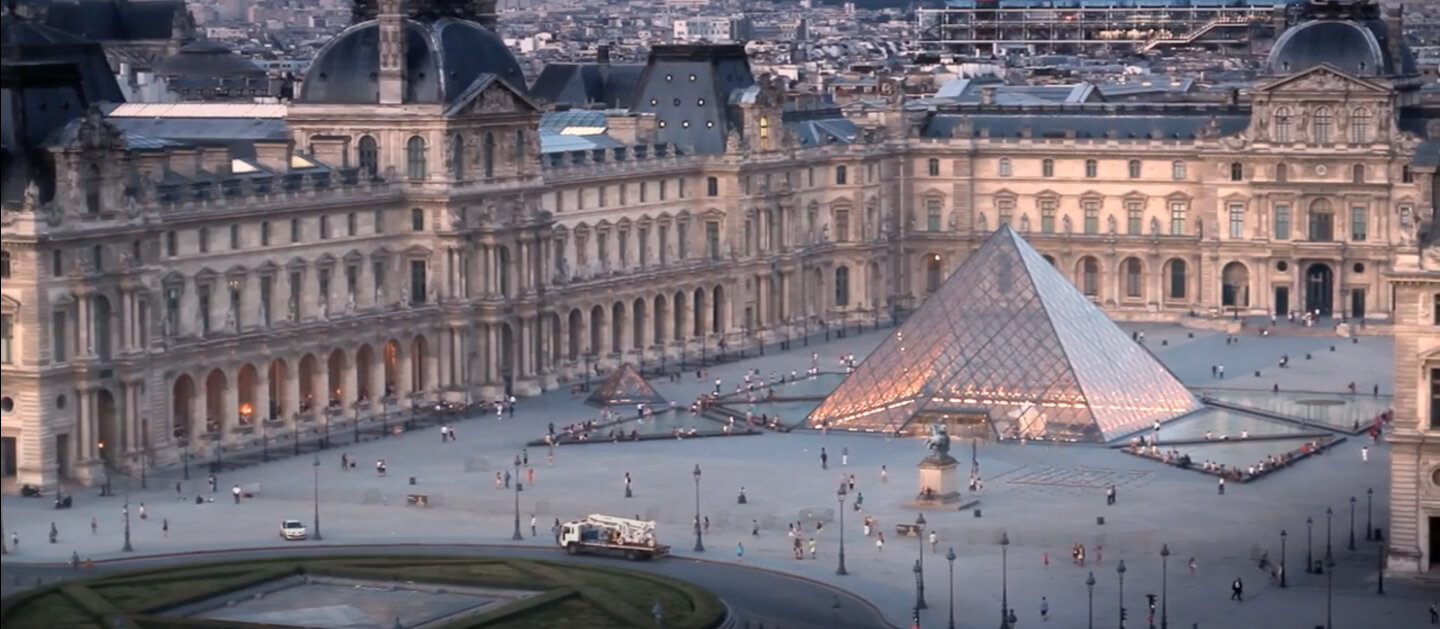
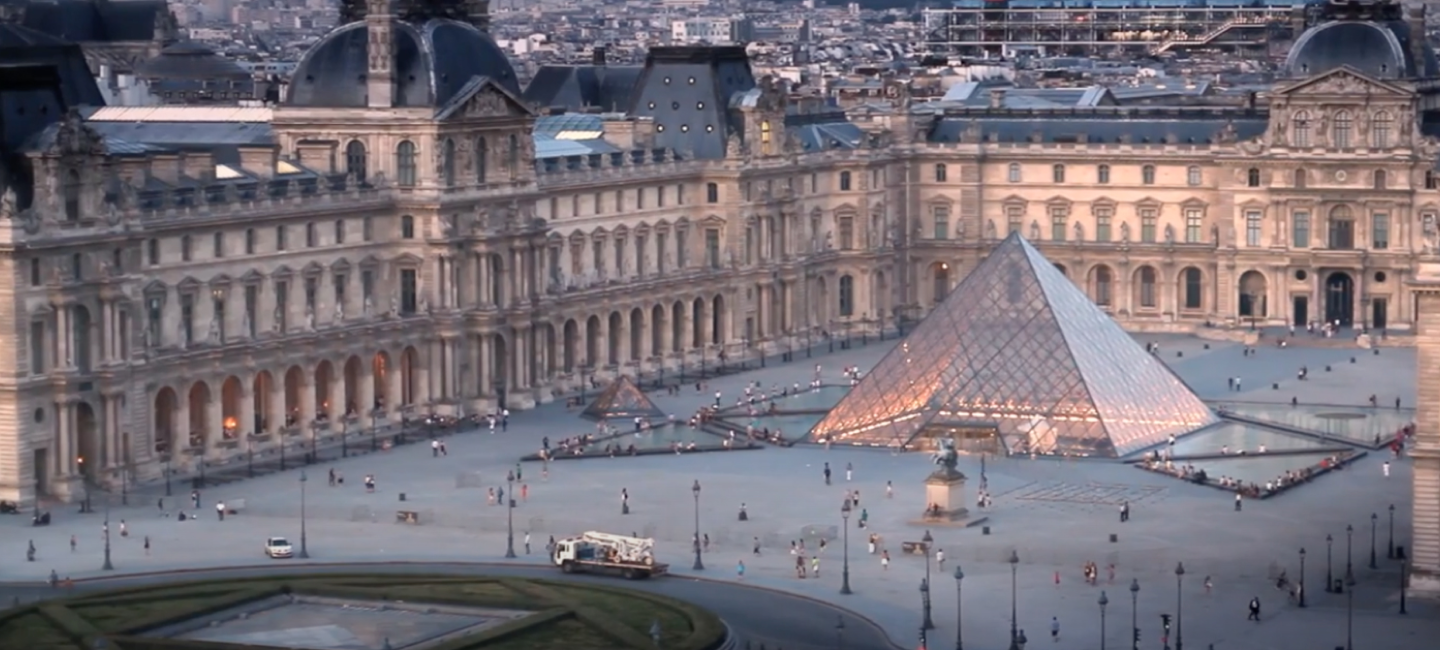
feat: update video section

diff --git a/museum/icons/_sprite-preview.html b/museum/icons/_sprite-preview.html
@@ -20,6 +20,7 @@ They might well be outsourced to an external stylesheet of course.
 
 <style type="text/css">
 	.svg-arrow-dims { width: 30px; height: 8px; }
+	.svg-double-arrow-dims { width: 10px; height: 12px; }
 	.svg-facebook-dims { width: 13px; height: 20px; }
 	.svg-fullscreen-dims { width: 35px; height: 35px; }
 	.svg-instagram-dims { width: 21px; height: 20px; }
@@ -53,6 +54,7 @@ for further details on how to create this embeddable sprite variant.
 
 <svg width="0" height="0" style="position:absolute">
 		<symbol fill="none" viewBox="0 0 30 8" id="arrow"><path d="M5.723 8C3.902 6.313 1.994 5.083 0 4.308v-.616C1.994 2.895 3.902 1.664 5.723 0H7.24c-.867 1.436-1.705 2.53-2.515 3.282H30v1.436H4.725C5.535 5.47 6.373 6.564 7.24 8H5.723z" fill="#fff"/></symbol>
+		<symbol fill="none" viewBox="0 0 10 12" id="double-arrow"><path fill-rule="evenodd" clip-rule="evenodd" d="M5.478.22c.4.344.465.973.145 1.405L2.376 6l3.247 4.375c.32.432.255 1.06-.145 1.406a.883.883 0 01-1.304-.156L0 6 4.174.375A.883.883 0 015.478.22zm4.174 0c.4.344.465.973.145 1.405L6.55 6l3.247 4.375c.32.432.255 1.06-.145 1.406a.883.883 0 01-1.304-.156L4.174 6 8.348.375A.883.883 0 019.652.22z" fill="#999"/></symbol>
 		<symbol fill="none" viewBox="0 0 13 20" id="facebook"><path d="M3.78 20l-.03-8.75H0V7.5h3.75V5c0-3.37 2.09-5 5.1-5 1.44 0 2.68.1 3.04.15v3.53H9.8c-1.63 0-1.95.78-1.95 1.92v1.9h4.65l-1.25 3.75h-3.4V20H3.78z" fill="#fff"/></symbol>
 		<symbol fill="none" viewBox="0 0 35 35" id="fullscreen"><path d="M30.605 30.751H22.41v4.113h12.298V22.507h-4.102v8.244zM4.103 22.507H0v12.357h12.299V30.75H4.103v-8.244zM0 12.357h4.103V4.122h8.196V0H0v12.357zM22.41 0v4.122h8.195v8.235h4.103V0H22.41z" fill="#B3B3B3"/></symbol>
 		<symbol fill="none" viewBox="0 0 21 20" id="instagram"><path d="M12.02 0c1.8 0 2.18.02 3.1.06 1.06.05 1.79.22 2.42.47.66.25 1.22.6 1.77 1.15.56.55.9 1.11 1.16 1.77.25.63.41 1.36.46 2.43.05.95.06 1.32.06 3.32v1.6c0 2-.01 2.37-.06 3.32a7.333 7.333 0 01-.46 2.42c-.26.66-.6 1.22-1.15 1.77-.56.56-1.12.9-1.78 1.16-.63.25-1.36.41-2.42.46-.95.05-1.33.06-3.33.06H10.2c-2 0-2.37-.01-3.33-.06a7.339 7.339 0 01-2.42-.46 4.91 4.91 0 01-1.77-1.15 4.9 4.9 0 01-1.16-1.78 7.35 7.35 0 01-.46-2.42 55.207 55.207 0 01-.06-3.1V8.97c0-1.8.02-2.18.06-3.1.05-1.06.22-1.79.46-2.42.26-.66.6-1.22 1.16-1.77A4.7 4.7 0 014.45.53 7.35 7.35 0 016.87.06C7.79.02 8.17 0 9.97 0h2.05zm.02 1.8H9.95c-1.73 0-2.1.02-3 .06-.97.04-1.5.2-1.85.34-.47.18-.8.4-1.15.75-.35.35-.57.68-.75 1.15-.13.35-.3.88-.34 1.86-.04.9-.06 1.26-.06 3v2.08c0 1.74.02 2.1.06 3 .04.97.2 1.5.34 1.85.18.47.4.8.75 1.15.35.35.68.57 1.15.75.35.14.88.3 1.86.34.97.05 1.32.06 3.48.06h1.11c2.17 0 2.51-.01 3.49-.06.97-.04 1.5-.2 1.85-.34.47-.18.8-.4 1.15-.75.35-.35.57-.68.75-1.15.14-.35.3-.88.34-1.85.05-.98.06-1.32.06-3.49v-1.1c0-2.17-.01-2.52-.06-3.5-.04-.97-.2-1.5-.34-1.85a3.101 3.101 0 00-.75-1.15 3.09 3.09 0 00-1.15-.75 5.6 5.6 0 00-1.85-.34c-1-.048-2-.068-3-.06zM11 4.86a5.135 5.135 0 110 10.27 5.135 5.135 0 010-10.27zm0 1.8a3.335 3.335 0 100 6.67 3.335 3.335 0 000-6.67zm5.33-3.2a1.2 1.2 0 110 2.4 1.2 1.2 0 010-2.4z" fill="#fff"/></symbol>
@@ -102,6 +104,17 @@ embedded above. They may be styled via CSS.
 
 					</div>
 					<h2>arrow</h2>
+				</li>
+				<li title="double-arrow">
+					<div class="icon-box">
+
+						<!-- double-arrow -->
+						<svg class="svg-double-arrow-dims">
+							<use xlink:href="#double-arrow"></use>
+						</svg>
+
+					</div>
+					<h2>double-arrow</h2>
 				</li>
 				<li title="facebook">
 					<div class="icon-box">
@@ -245,6 +258,17 @@ SVG sprite. They may be styled via CSS. (IE 9-11 with polyfill only)
 					</div>
 					<h2>arrow</h2>
 				</li>
+				<li title="double-arrow">
+					<div class="icon-box">
+
+						<!-- double-arrow -->
+						<svg class="svg-double-arrow-dims">
+							<use xlink:href="sprite.svg#double-arrow"></use>
+						</svg>
+
+					</div>
+					<h2>double-arrow</h2>
+				</li>
 				<li title="facebook">
 					<div class="icon-box">
 
@@ -363,7 +387,7 @@ SVG sprite. They may be styled via CSS. (IE 9-11 with polyfill only)
 
 		</section>
 		<footer>
-			<p>Generated at Fri, 24 Sep 2021 13:47:53 GMT by <a href="https://github.com/svg-sprite/svg-sprite" target="_blank" rel="noopener noreferrer">svg-sprite</a>.</p>
+			<p>Generated at Sat, 25 Sep 2021 17:27:45 GMT by <a href="https://github.com/svg-sprite/svg-sprite" target="_blank" rel="noopener noreferrer">svg-sprite</a>.</p>
 		</footer>
 	</body>
 </html>

diff --git a/museum/views/includes/video.html b/museum/views/includes/video.html
@@ -1,7 +1,13 @@
 <section class="section light-section video-section" id="video">
   <div class="container">
+    <div class="video-info">
+      <h2 class="section-title video-title">Video journey</h2>
+      <p class="video-text">Enter and visit one of the most famous museums in the world and enjoy masterpieces such as
+        Mona
+        Lisa or Hammurabi's Code</p>
+    </div>
     <div class="img-wrapper">
-      <img src="assets/img/video-screenshot.jpg" alt="Video screenshot" class="videopleer" width="1440" height="629">
+      <img src="assets/img/video-screenshot.jpg" alt="Video screenshot" class="videopleer" width="1440" height="650">
       <button class="video-button">
         <svg class="video-button-img" width="220" height="220">
           <title>Play</title>
@@ -10,22 +16,10 @@
       </button>
     </div>
     <div class="control-panel">
-      <button class="play-back pleer-button">
-        <svg class="pleer-button-svg" width="27" height="30">
-          <title>Play back</title>
-          <use href="assets/icons/sprite.svg#play-back"></use>
-        </svg>
-      </button>
       <button class="play pleer-button">
         <svg class="pleer-button-svg" width="23" height="30">
           <title>Play</title>
           <use href="assets/icons/sprite.svg#play"></use>
-        </svg>
-      </button>
-      <button class="play-forward pleer-button">
-        <svg class="pleer-button-svg" width="27" height="30">
-          <title>Play</title>
-          <use href="assets/icons/sprite.svg#play-forward"></use>
         </svg>
       </button>
       <input type="range" value="40" min="0" max="100" step="1" class="progress progress-big">
@@ -43,11 +37,29 @@
         </svg>
       </button>
     </div>
-    <div class="video-info">
-      <h2 class="section-title video-title">Video journey</h2>
-      <p class="video-text">Enter and visit one of the most famous museums in the world and enjoy masterpieces such as
-        Mona
-        Lisa or Hammurabi's Code</p>
+    <div class="video-slider-wrapper">
+      <iframe width="452" height="254" loading="lazy" src="https://www.youtube.com/embed/aWmJ5DgyWPI" title="YouTube video player" frameborder="0" allow="accelerometer; autoplay; clipboard-write; encrypted-media; gyroscope; picture-in-picture" allowfullscreen></iframe>
+      <iframe width="452" height="254" loading="lazy" src="https://www.youtube.com/embed/Vi5D6FKhRmo" title="YouTube video player" frameborder="0" allow="accelerometer; autoplay; clipboard-write; encrypted-media; gyroscope; picture-in-picture" allowfullscreen></iframe>
+      <iframe width="452" height="254" loading="lazy" src="https://www.youtube.com/embed/NOhDysLnTvY" title="YouTube video player" frameborder="0" allow="accelerometer; autoplay; clipboard-write; encrypted-media; gyroscope; picture-in-picture" allowfullscreen></iframe>
+    </div>
+    <div class="video-slider-controls">
+      <button class="video-slider-arrow">
+        <svg class="video-slider-arrow-left" width="10" height="12">
+          <use href="assets/icons/sprite.svg#double-arrow"></use>
+        </svg>
+      </button>
+      <div class="video-slider-dots">
+        <button class="video-slider-dots-item active"></button>
+        <button class="video-slider-dots-item"></button>
+        <button class="video-slider-dots-item"></button>
+        <button class="video-slider-dots-item"></button>
+        <button class="video-slider-dots-item"></button>
+      </div>
+      <button class="video-slider-arrow">
+        <svg class="video-slider-arrow-right" width="10" height="12">
+          <use href="assets/icons/sprite.svg#double-arrow"></use>
+        </svg>
+      </button>
     </div>
   </div>
 </section>

diff --git a/museum/scss/_video.scss b/museum/scss/_video.scss
@@ -1,5 +1,5 @@
 .video-section {
-  padding-top: 90px;
+  padding-top: 76px;
   padding-bottom: 59px;
 }
 
@@ -9,6 +9,8 @@
 
 .videopleer {
   display: block;
+  object-fit: cover;
+
 }
 
 .video-button {
@@ -17,7 +19,7 @@
   position: absolute;
   top: 50%;
   left: 50%;
-  transform: translate(-50%, -50%);
+  transform: translate(-50%, -49%);
   cursor: pointer;
 }
 
@@ -39,8 +41,8 @@
   background-color: #000;
   padding-top: 23px;
   padding-bottom: 21px;
-  padding-left: 41px;
-  padding-right: 41px;
+  padding-left: 23px;
+  padding-right: 30px;
   display: flex;
   align-items: center;
   justify-content: space-between;
@@ -63,10 +65,9 @@
 }
 
 .progress-big {
-  background: linear-gradient(to right, #24809E 0%, #24809E 40%, #fff 40%, #fff 100%);
-  border: solid 2px #24809E;
+  background: linear-gradient(to right, #710707 0%, #710707 40%, #fff 40%, #fff 100%);
   height: 8px;
-  width: 820px;
+  width: 929px;
   outline: none;
   transition: background 450ms ease-in;
   -webkit-appearance: none;
@@ -82,8 +83,7 @@
 }
 
 .progress {
-  background: linear-gradient(to right, #24809E 0%, #24809E 40%, #fff 40%, #fff 100%);
-  border: solid 2px #24809E;
+  background: linear-gradient(to right, #710707 0%, #710707 40%, #fff 40%, #fff 100%);
   height: 8px;
   outline: none;
   transition: background 450ms ease-in;
@@ -97,22 +97,13 @@
   -webkit-appearance: none;
   cursor: ew-resize;
   background: #fff;
-  margin-bottom: 2px;
 }
 
 .progress-big {
-  width: 820px;
+  width: 929px;
 }
 .progress-small {
   width: 155px;
-}
-
-.play-back {
-  margin-left: -5px;
-}
-
-.volume {
-  margin-right: -7px;
 }
 
 .fullscreen {
@@ -122,11 +113,11 @@
 .video-info {
   display: flex;
   justify-content: space-between;
+  margin-bottom: 59px;
 }
 
 .video-title {
   color: var(--font-gold);
-  margin-top: 39px;
 }
 
 .video-text {
@@ -136,5 +127,58 @@
   line-height: 38px;
   color: var(--font-dark);
   max-width: 720px;
-  padding-top: 25px;
+  margin-top: 8px;
+}
+
+.video-slider-wrapper {
+  margin-top: 40px;
+  display: flex;
+  justify-content: space-between;
+}
+
+.video-slider-controls {
+  display: flex;
+  align-items: center;
+  justify-content: center;
+  margin: 0 auto;
+  margin-top: 27px;
+  width: 200px;
+}
+
+.video-slider-arrow {
+  border: none;
+  background: none;
+  cursor: pointer;
+  padding: 0;
+}
+
+.video-slider-dots {
+  display: flex;
+  align-items: center;
+  justify-content: space-between;
+}
+
+.video-slider-dots-item {
+  width: 12px;
+  height: 12px;
+  background-color: #999999;
+  border-radius: 50%;
+  cursor: pointer;
+  border: none;
+  display: block;
+  margin: 10px;
+  &.active {
+    background-color: #333333;
+  }
+}
+
+.video-slider-arrow-left {
+  padding: 10px;
+  margin-top: 2px;
+}
+
+.video-slider-arrow-right {
+  transform: rotate(180deg);
+  padding: 10px;
+  margin-top: 2px;
 }

diff --git a/museum/js/progressBar.js b/museum/js/progressBar.js
@@ -3,10 +3,10 @@ const progressSmall = document.querySelector('.progress-small');
 
 progressBig.addEventListener('input', function () {
   const value = this.value;
-  this.style.background = `linear-gradient(to right, #24809E 0%, #24809E ${value}%, #fff ${value}%, white 100%)`;
+  this.style.background = `linear-gradient(to right, #710707 0%, #710707 ${value}%, #fff ${value}%, white 100%)`;
 });
 
 progressSmall.addEventListener('input', function () {
   const value = this.value;
-  this.style.background = `linear-gradient(to right, #24809E 0%, #24809E ${value}%, #fff ${value}%, white 100%)`;
+  this.style.background = `linear-gradient(to right, #710707 0%, #710707 ${value}%, #fff ${value}%, white 100%)`;
 });
